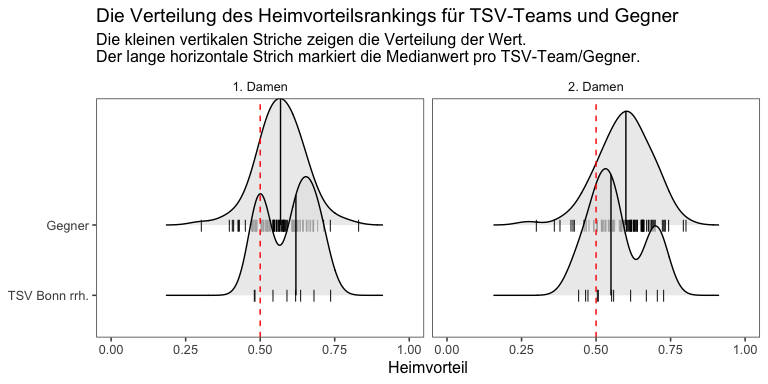
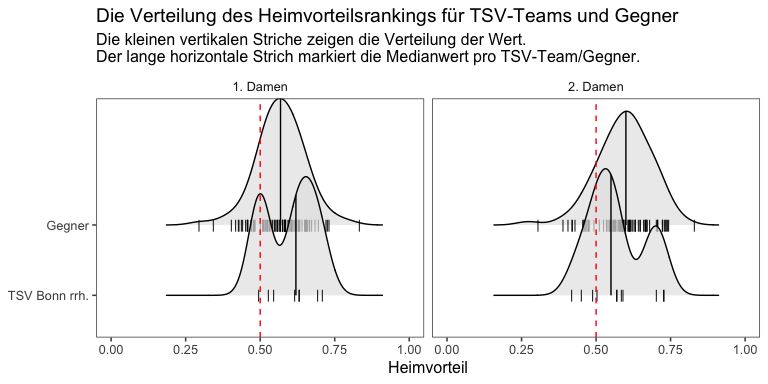
Update number of (TSV) games

diff --git a/ringarena.md b/ringarena.md
@@ -8,7 +8,7 @@ Liest man Vorberichte der Gegner zu Auswärtsspielen bei der TSV, kommt die Hall
 
 ![Die Ringarena in Bonn-Beuel](ringarena.jpg)
 
-Um das herauszufinden, habe ich alle Saisonspiele aller Seniorenmannschaften zwischen der Saison 2010/2011 und 2017/2018 von [SIS-Handball](http://sis-handball.de) automatisch gescraped. Der gesamte Code und die Daten sind [hier verfügbar](https://github.com/stefan-mueller/ringarena). Der Datensatz umfasst insgesamt 6.420 Spiele.
+Um das herauszufinden, habe ich die Ergebnisse aller Spiele aus den Ligen der TSV-Senior/innen-Mannschaften zwischen der Saison 2010/2011 und 2017/2018 von [SIS-Handball](http://sis-handball.de) automatisch [gescraped](https://cran.r-project.org/web/packages/rvest/README.html). Der gesamte Code und die Daten sind [hier verfügbar](https://github.com/stefan-mueller/ringarena). Der Datensatz umfasst insgesamt 6.560 Spiele. In 585 dieser Spiele war eines der TSV-Teams beteiligt.
 
 Mit diesem Datensatz lässt sich nun der "Heimvorteil" berechnen (genauer beschrieben in einem [Paper von Liam Kneafsey und mir](https://muellerstefan.net/papers/ijpas_kneafsey_mueller.pdf), das bald im *International Journal of Performance Analysis in Sport* veröffentlicht wird). Grob gesprochen kann der Wert für jedes Team in der Saison zwischen 0 und 1 liegen. Ein Wert von 1 bedeutet, dass alle Punkte daheim eingefahren wurde, eine 0 impliziert, dass ein Team Punkte lediglich Auswärts errungen hat. Folglich markieren alle Werte über 0.5 einen Heimvorteil: das Team hat mehr Heim- als Auswärtspunkte gesammelt.
 
